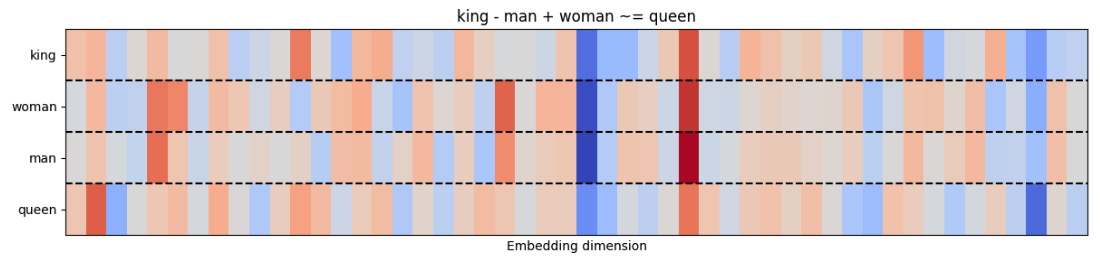
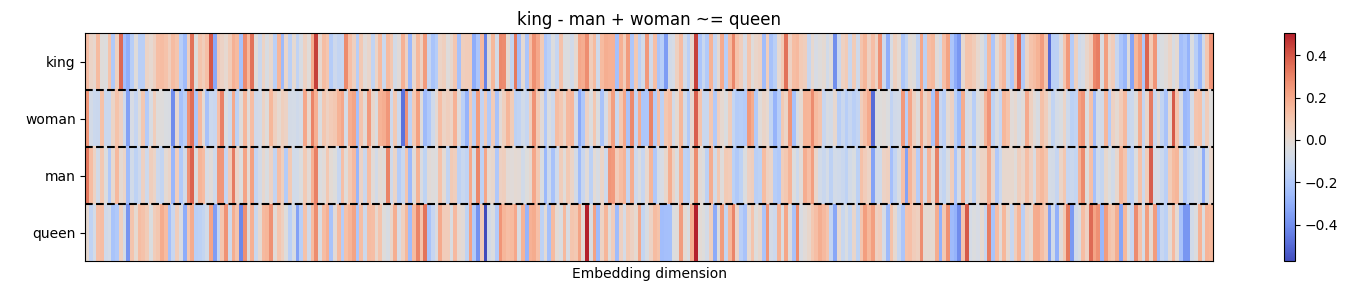
angel"s feedback integrated

diff --git a/episodes/03-embeddings.md b/episodes/03-embeddings.md
@@ -485,7 +485,7 @@ While we don't know which dimension code for what, we can see that some columns 
 ## Analogies
 A word analogy is a statement of the type: “*a* is to *b* as *x* is to *y*”, which means that *a* and *x* can be transformed in the same way to get *b* and *y*, respectively. Vice versa, *b* and *y* can be inversely transformed to get *a* and *x*. 
 
-A famous analogy (King - man + woman ~= queen) shows an incredible property of word embeddings: That is, since words are encoded as vectors, we can often solve analogies with vector arithmetic. 
+A famous analogy (King - man + woman ~= queen) shows an incredible property of `word2vec` embeddings: That is, since words are encoded as vectors, we can often solve analogies with vector arithmetic. 
 
 Let's consider this in detail:
 
@@ -504,7 +504,7 @@ In the line of code above, we have added the word vectors of: $$ \overrightarrow
 The output:
 
 ```python
-[('queen', 0.8523604273796082)]
+[('queen', 0.7118192911148071)]
 ```
 
 We can visualize this analogy as we did previously:
@@ -576,7 +576,7 @@ So, in this case this analogy is not solved very well by our model. I expected t
 
 ## Linguistic categories, dimensionality reduction and the challenge of polysemy
 
-In addition to analogies, we can explore how good word2vec is in capturing the syntactic and semantic similarity between words (and pairs of words), via the exploration of linguistic categories.
+In addition to analogies, we can explore how good `word2vec` is in capturing the syntactic and semantic similarity between words (and pairs of words), via the exploration of linguistic categories.
 
 Linguistic categories are groups of words that describe high-level properties that all those words have in common. Consider the following words:
 
@@ -594,7 +594,7 @@ What do they have in common? They are all `vehicles`. Consider now these words:
                'fly', 'crane', 'bug','seal','cougar', 'jaguar']
 ```
 
-All those words belong to the category of `animals`. Let's group those vectors in their respective category label:
+All those words belong to the category of `animals`. Let's group those vectors in their respective category labels:
 
 ```python
 animal_words = ['dog', 'cat', 'horse', 'lion', 'tiger', 'elephant', 'bear', 'wolf', 'fox', 'deer', 
@@ -605,7 +605,7 @@ vehicle_words = ['car', 'truck', 'bus', 'bicycle', 'motorcycle', 'scooter', 'tra
                  'trailer', 'jeep', 'minivan', 'skateboard', 'tank', 'bobcat']
 ```
 
-Let's extract now their vectors from our pre-trained word2vec model:
+Let's extract their vectors from our pre-trained word2vec model:
 
 ```python
 all_words = animal_words + vehicle_words 
@@ -669,9 +669,8 @@ The visualisation confirms our real world knowledge:
 
 ### Polysemy 
 
-At a closer inspection, however, there is also an interesting phenomenon visible: The words `fly` (for animals) and `bobcat` (for vehicles) are somewhat confused. They are represented closer to the vehicles and animals, respectively. The reason for this "confusion" is due to the fact that `fly` and `bobcat` are polysemous words, i.e., they have multiple meanings. A vast majority of words, especially frequent ones, are polysemous, with each word taking on anywhere from two to a dozen different senses in many natural languages. We are able to disambiguate words based on the context in which they occur. Word2vec however is not able to do it.
+At a closer inspection, however, there is also an interesting phenomenon visible: The words `crane` (for animals) and `bobcat` (for vehicles) are somewhat confused. They are represented closer to the vehicles and animals, respectively. The reason for this "confusion" is due to the fact that `crane` and `bobcat` are polysemous words, i.e., they have multiple meanings. A `cran`e is a large, tall machine used for moving heavy objects and a tall, long-legged, long-necked bird. A bobcat is both a wildcat with a short tail and spotted coat and an excavator used for digging. A vast majority of words, especially frequent ones, are polysemous, with each word taking on anywhere from two to a dozen different senses in many natural languages. We are able to disambiguate words based on the context in which they occur. Word2vec however is not able to do it. The reason for this is that word2vec assigns a single vector to each word regardless of its multiple meanings. This means that all contexts in which a polysemous word appears contribute to a single representation, in which all meanings are blended together.
 
-Note this problem in the word `crane`. A crane is a large, tall machine used for moving heavy objects and a tall, long-legged, long-necked bird. This word is categorised as animal, and it falls closer indeed to the animal realm. However it would have been better to represent it half-way through a vehicle and an animal, since it's also some sort of vehicle. 
 
 ::::::::::::::::::::::::::::::::::::: keypoints
 
@@ -794,8 +793,10 @@ def read_input(book_ids):
         doc = nlp(raw_text)
         
         for sentence in doc.sents:
-            # Tokenize, lowercase, remove stop words and punctuation
-            tokens = [token.text.lower() for token in sentence if not token.is_stop and not token.is_punct]
+            # Tokenize, lowercase, use lemmatization
+            tokens = [token.lemma_.lower() for token in sentence 
+            # remove stop words punctuation and words starting with uppercase (to avoid entities), 
+                      if not token.is_stop and not token.is_punct and not token.text[0].isupper()]
             if tokens:
                 yield tokens
                 
@@ -812,14 +813,16 @@ logging.info("Done reading and preprocessing data")
 We initialise the word2vec model:
 
 ```python
-model = gensim.models.Word2Vec(documents, vector_size=50, window=10, min_count=2, workers=4)
+model = gensim.models.Word2Vec(documents, vector_size=50, window=4, min_count=2, workers=4)
 ```
 
 Note that: 
 
+- By default, the architecture used by `gensim.models.Word2Vec()` is CBOW. You have to explicitly state `sg=1` if you intend to use skip-gram.
+
 - we set `vector_size` to 50. This means that each word will be represented by a 50-dimensional vector in the embedding space. Higher dimensions can capture more semantic nuances but require more computational resources. 
 
-- In addition, we set `window` to 10. This setting ensures that the model consider up to 10 words to the left and 10 words to the right of the target word for context. Larger windows can capture broader context but might introduce noise. 
+- In addition, we set `window` to 4. This setting ensures that the model consider up to 4 words to the left and 4 words to the right of the target word for context. Larger windows can capture broader context but might introduce noise. 
 
 - We ignore all words with total frequency lower than a predifined threshold by setting `min_count` to 2. This helps to remove infrequent words that may not provide useful information and could potentially introduce noise.
 
@@ -831,7 +834,7 @@ Now that we are all set, we start training on the polished dataset:
 model.train(documents,total_examples=len(documents),epochs=10)
 ```
 
-We can then explore the embedding space as we did for the `GloVE` model.
+We can then explore the embedding space as we did for the `word2vec-google-news-300` model.
 
 
 
@@ -855,11 +858,11 @@ model.wv.most_similar(positive=['king', 'woman'], negative=['man'], topn=5)
 Output:
 
 ```python
-[('tranquo', 0.6235862970352173),
- ('weyard', 0.6232213377952576),
- ('sicily', 0.6137406229972839),
- ('allemaine', 0.6106457710266113),
- ('bridewell', 0.597455620765686)]
+[('rich', 0.6688281893730164),
+ ('brave', 0.6251468062400818),
+ ('widow', 0.6215934753417969),
+ ('farmer', 0.6200089454650879),
+ ('nursery', 0.6171179413795471)]
 ```
 
 - If you ask for the top 10 words most similar to `King` what's the output? 
@@ -873,16 +876,16 @@ model.wv.most_similar(w1, topn=10)
 Output:
 
 ```python
-[('allemaine', 0.6935099363327026),
- ('saul', 0.6925671696662903),
- ('david', 0.6918837428092957),
- ('tranquo', 0.6515917181968689),
- ('robber', 0.6457288265228271),
- ('lords', 0.6413857936859131),
- ('sourse', 0.6361883878707886),
- ('commons', 0.6356653571128845),
- ('liued', 0.6342921853065491),
- ('queene', 0.6335513591766357)]
+[('queen', 0.6963975429534912),
+ ('royal', 0.6770277619361877),
+ ('brave', 0.6549012660980225),
+ ('evangelist', 0.6369228959083557),
+ ('warrior', 0.6366517543792725),
+ ('god', 0.6336646676063538),
+ ('crop', 0.6331022381782532),
+ ('bachelor', 0.6304036974906921),
+ ('mystick', 0.6260853409767151),
+ ('auction', 0.614545464515686)]
 ```
 
 - Difference in performance is due to (1) different trained corpus and (2) different size of the corpus. 
